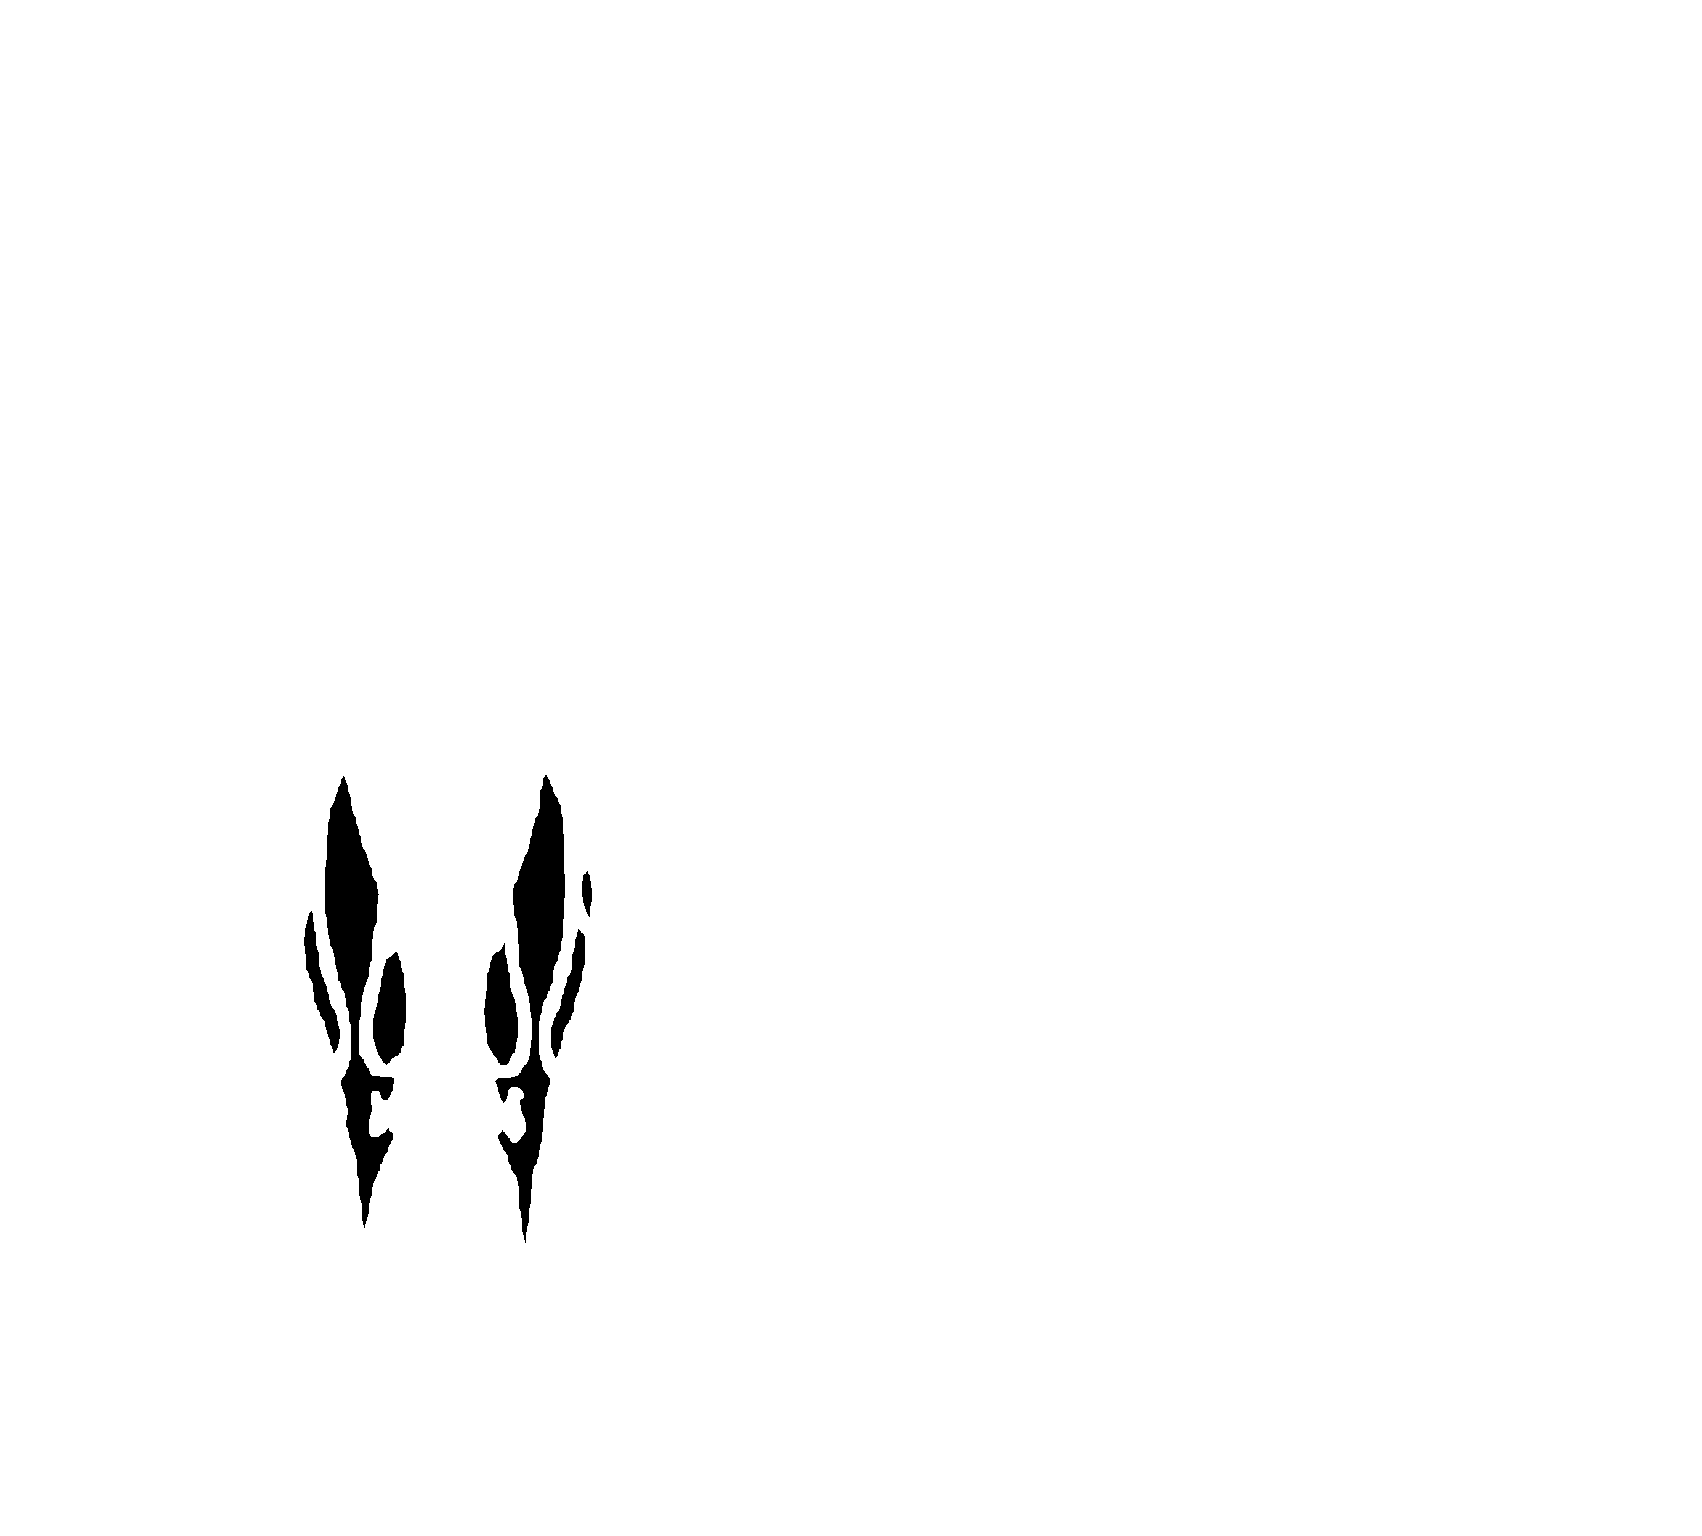
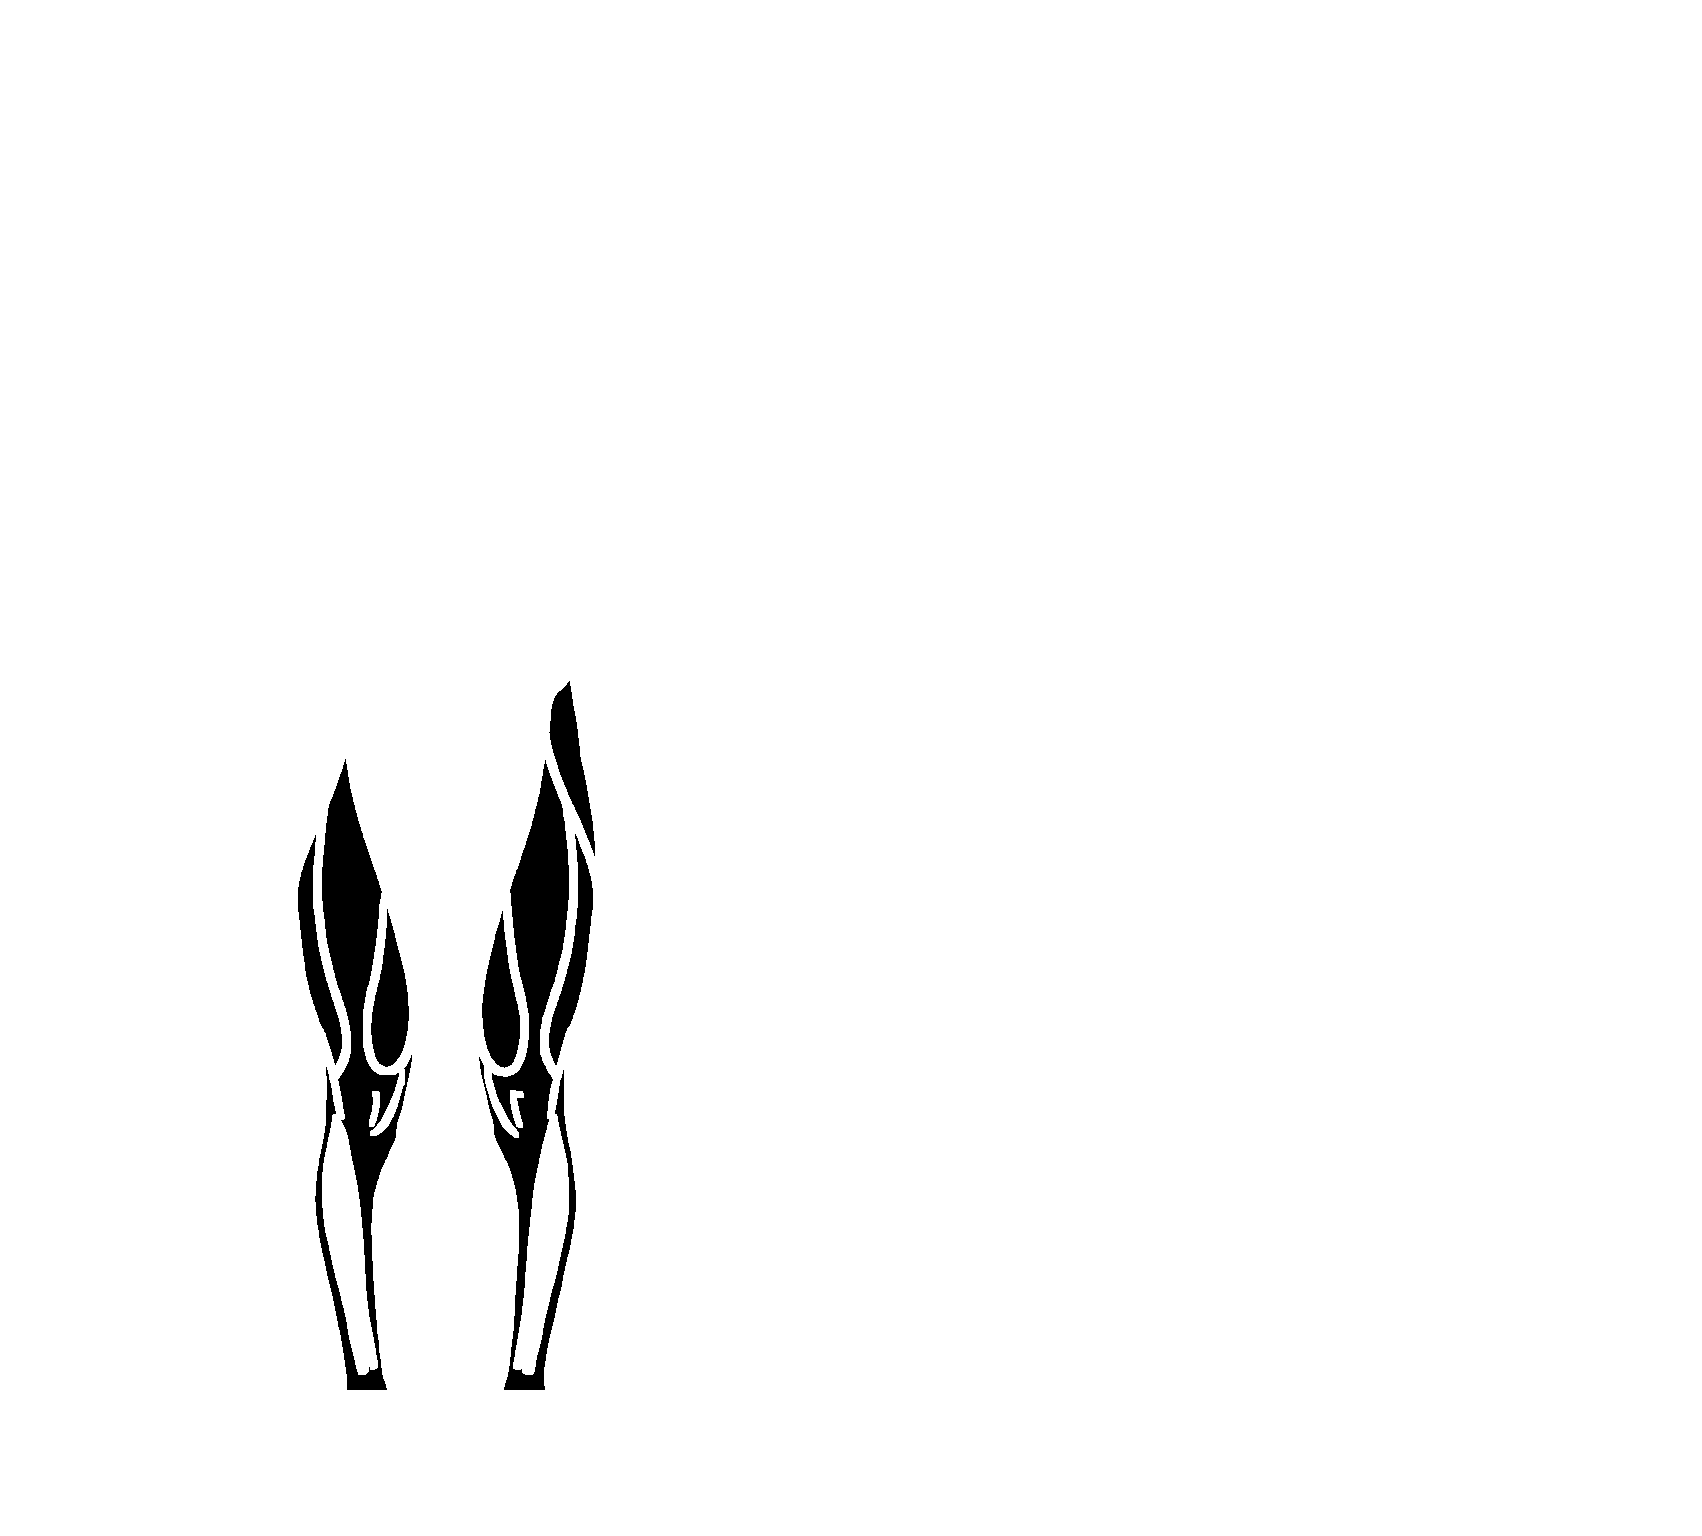
Add forearm support and refine muscle mask assets

diff --git a/frontend/src/data/exercises.ts b/frontend/src/data/exercises.ts
@@ -69,6 +69,9 @@ export const EXERCISE_OPTIONS: ExerciseOption[] = [
   { name: "Preacher Curl", bodyPart: "Biceps", primaryFocus: "Short Head", equipment: "EZ-Bar / Machine" },
   { name: "Incline Dumbbell Curl", bodyPart: "Biceps", primaryFocus: "Long Head (Stretch)", equipment: "Dumbbells, Incline Bench" },
   { name: "Concentration Curl", bodyPart: "Biceps", primaryFocus: "Peak / Isolation", equipment: "Dumbbell" },
+  { name: "Reverse Bar Bicep Curl", bodyPart: "Forearms", primaryFocus: "Brachialis / Forearm", equipment: "EZ-Bar / Barbell" },
+  { name: "Dumbbell Forearm Curl", bodyPart: "Forearms", primaryFocus: "Forearms", equipment: "Dumbbells" },
+  { name: "Cable Forearm Curl", bodyPart: "Forearms", primaryFocus: "Forearms", equipment: "Cable Machine" },
   { name: "Hanging Leg Raise", bodyPart: "Abs/Core", primaryFocus: "Abs", equipment: "Pull-Up Bar" },
   { name: "Cable Crunch", bodyPart: "Abs/Core", primaryFocus: "Abs", equipment: "Cable Machine" },
   { name: "Decline Crunch", bodyPart: "Abs/Core", primaryFocus: "Abs", equipment: "Decline Bench" },

diff --git a/frontend/src/screens/ProgressScreen.tsx b/frontend/src/screens/ProgressScreen.tsx
@@ -49,6 +49,7 @@ type CanonicalBodyPart =
   | 'Calves'
   | 'Triceps'
   | 'Biceps'
+  | 'Forearms'
   | 'Abs/Core'
   | 'Other';
 
@@ -79,6 +80,7 @@ const BODY_PARTS: CanonicalBodyPart[] = [
   'Calves',
   'Triceps',
   'Biceps',
+  'Forearms',
   'Abs/Core',
   'Other',
 ];
@@ -96,6 +98,8 @@ const bodyPartAliases: Record<string, CanonicalBodyPart> = {
   calves: 'Calves',
   triceps: 'Triceps',
   biceps: 'Biceps',
+  forearms: 'Forearms',
+  forearm: 'Forearms',
   'abs/core': 'Abs/Core',
   'abs / core': 'Abs/Core',
   abs: 'Abs/Core',
@@ -174,6 +178,9 @@ function inferBodyPartFromExerciseName(name: string): CanonicalBodyPart {
   }
   if (/(calf)/.test(normalized)) {
     return 'Calves';
+  }
+  if (/(forearm|wrist\s*curl|reverse\s*curl|wrist\s*roller|grip|farmer'?s\s*carry)/.test(normalized)) {
+    return 'Forearms';
   }
   if (/(bicep|curl|preacher|hammer)/.test(normalized)) {
     return 'Biceps';

diff --git a/frontend/src/components/WeeklyMuscleMap.tsx b/frontend/src/components/WeeklyMuscleMap.tsx
@@ -13,6 +13,7 @@ export type CanonicalBodyPart =
   | 'calves'
   | 'triceps'
   | 'biceps'
+  | 'forearms'
   | 'absCore';
 
 type WeeklyMuscleMapProps = {
@@ -28,6 +29,7 @@ const BODY_PART_LABELS: Record<CanonicalBodyPart, string> = {
   calves: 'Calves',
   triceps: 'Triceps',
   biceps: 'Biceps',
+  forearms: 'Forearms',
   absCore: 'Abs/Core',
 };
 
@@ -42,6 +44,7 @@ const MASK_IMAGE_BY_PART: Record<CanonicalBodyPart, number> = {
   calves: require('../../assets/muscle-masks/calves.png'),
   triceps: require('../../assets/muscle-masks/triceps.png'),
   biceps: require('../../assets/muscle-masks/biceps.png'),
+  forearms: require('../../assets/muscle-masks/forearms.png'),
   absCore: require('../../assets/muscle-masks/absCore.png'),
 };
 

diff --git a/frontend/src/screens/LogScreen.tsx b/frontend/src/screens/LogScreen.tsx
@@ -105,6 +105,8 @@ const bodyPartAliases: Record<string, CanonicalBodyPart> = {
   calves: 'calves',
   triceps: 'triceps',
   biceps: 'biceps',
+  forearms: 'forearms',
+  forearm: 'forearms',
   'abs/core': 'absCore',
   'abs / core': 'absCore',
   abs: 'absCore',
@@ -140,6 +142,9 @@ function inferBodyPartFromExerciseName(name: string): CanonicalBodyPart | null {
   }
   if (/(calf)/.test(normalized)) {
     return 'calves';
+  }
+  if (/(forearm|wrist\s*curl|reverse\s*curl|wrist\s*roller|grip|farmer'?s\s*carry)/.test(normalized)) {
+    return 'forearms';
   }
   if (/(bicep|curl|preacher|hammer)/.test(normalized)) {
     return 'biceps';
